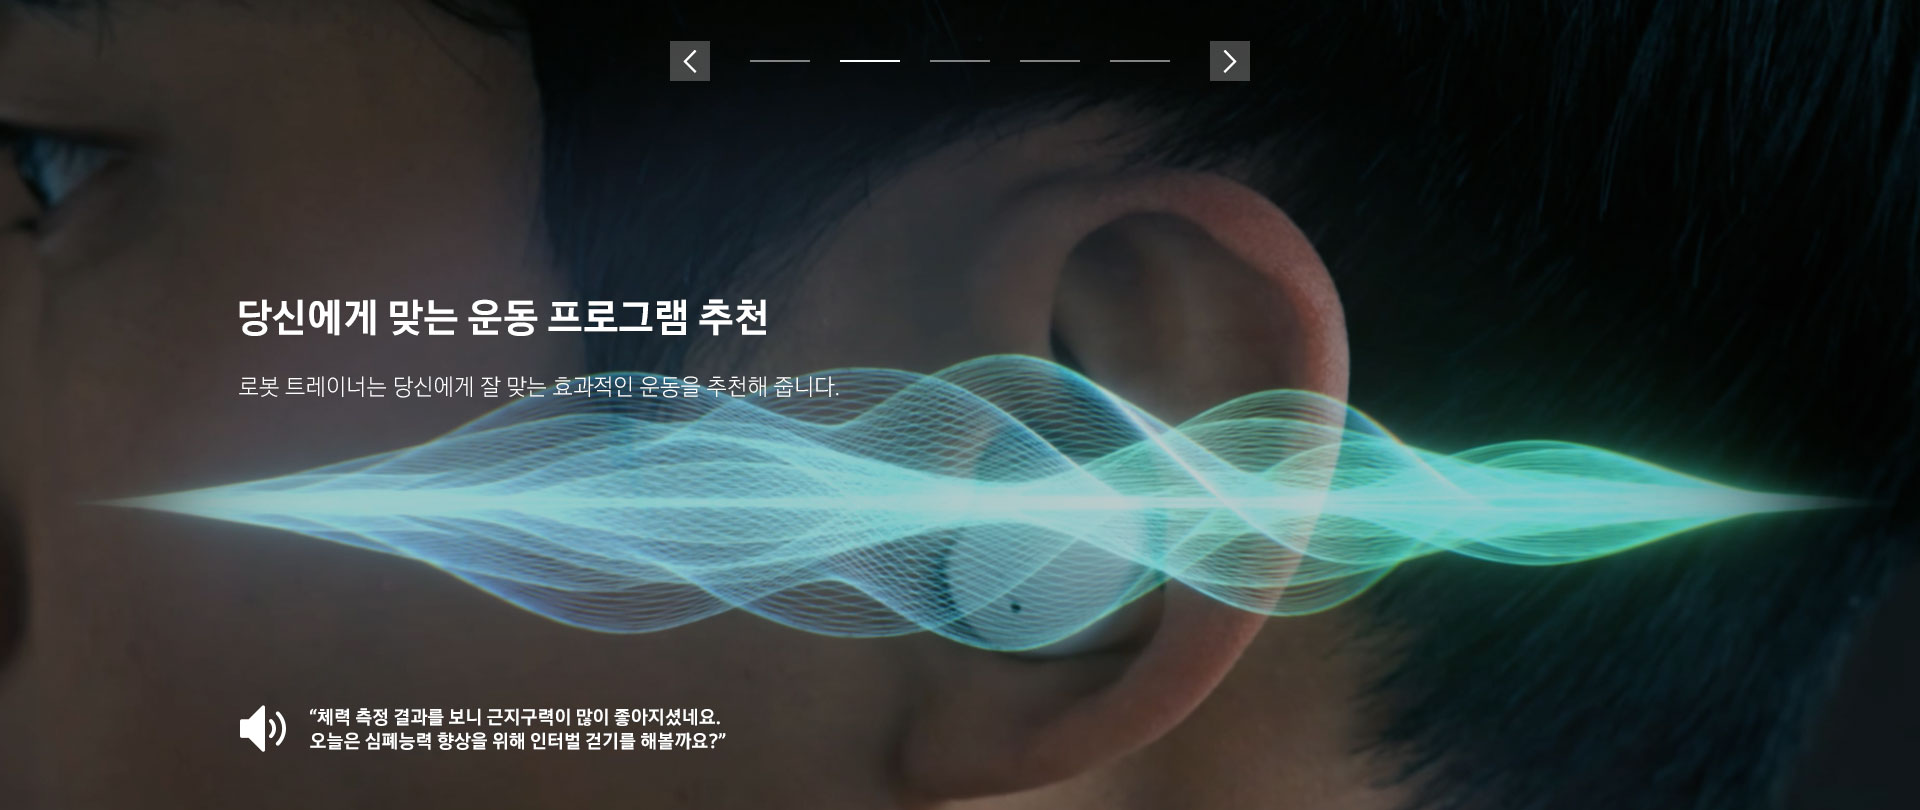
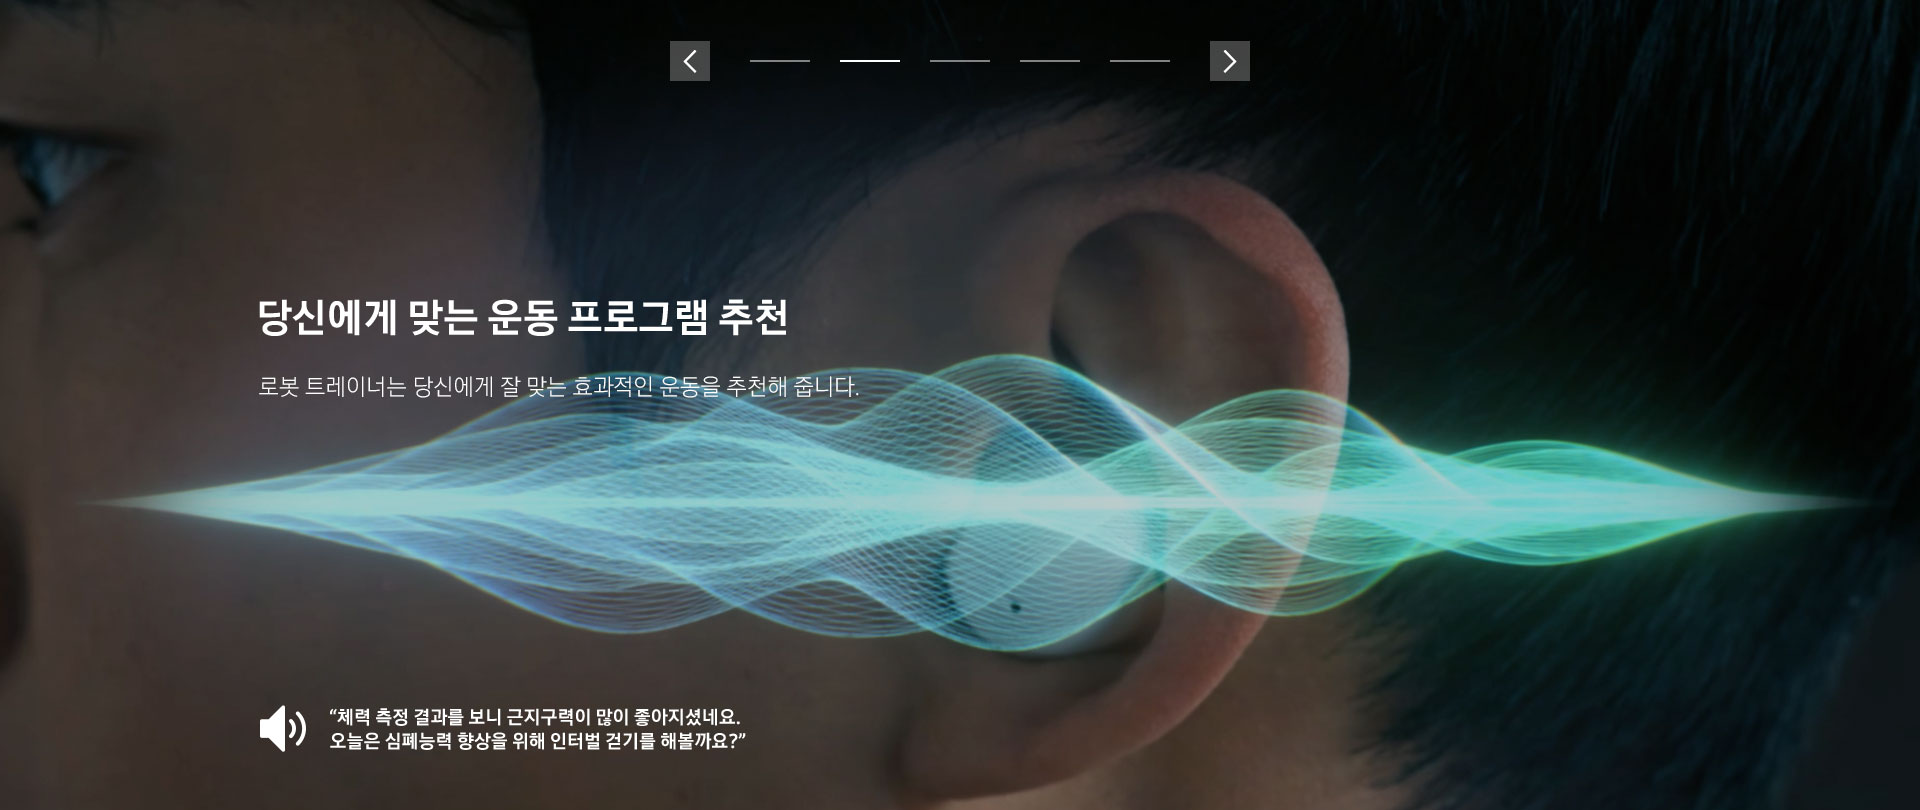
church practice room

Changed region(s): [[0.125, 0.8642, 0.4062, 0.9259], [0.125, 0.3704, 0.4062, 0.4321], [0.125, 0.463, 0.4375, 0.4938]]

diff --git a/index.html b/index.html
@@ -351,14 +351,67 @@
                             </div>
                             <div class="txt_box">
                                 <h3 class="title">운동에 대한 확실한 피드백</h3>
-                                <p class="desc">운동 자세와 신체 능력을 지속적으로 관리할 수 있도록, <br>종합적인 걷기 지표를 제공합니다. <br>효과적인 걷기 운동을 위해 AI 트레이너의 피드백을 놓치지 마세요.</p>
+                                <p class="desc">
+                                    운동 능력 측정을 통해, 당신에게 맞는 운동 프로그램을 추천 받아보세요.<br>
+                                    또한 원할 때마다 나의 운동 데이터를 트레킹 할 수 있습니다.
+                                </p>
+                                <p class="notice">* Samsung Bot Fit 앱은 Play 스토어에서 다운로드 가능</p>
+                                <p class="notice">* UX, UI 디자인 지속 업데이트로 인해 위 이미지와 다를 수 있음</p>
                             </div>
+                            <ul class="feedback_list">
+                                <li class="feedback_item">
+                                    <div class="img_box">
+                                        <img class="pc_only" src="images/sec_effect_speed_pc.png" alt="속도 이미지">
+                                        <img class="mo_only" src="images/sec_effect_speed_mo.png" alt="속도 이미지">
+                                    </div>
+                                    <p class="desc">속도</p>
+                                </li>
+                                <li class="feedback_item">
+                                    <div class="img_box">
+                                        <img class="pc_only" src="images/sec_effect_stride_pc.png" alt="보폭 이미지">
+                                        <img class="mo_only" src="images/sec_effect_stride_mo.png" alt="보폭 이미지">
+                                    </div>
+                                    <p class="desc">보폭</p>
+                                </li>
+                                <li class="feedback_item">
+                                    <div class="img_box">
+                                        <img class="pc_only" src="images/sec_effect_symmetry_pc.png" alt="보행 대칭성 이미지">
+                                        <img class="mo_only" src="images/sec_effect_symmetry_mo.png" alt="보행 대칭성 이미지">
+                                    </div>
+                                    <p class="desc">보행 대칭성</p>
+                                </li>
+                                <li class="feedback_item">
+                                    <div class="img_box">
+                                        <img class="pc_only" src="images/sec_effect_muscular_pc.png" alt="근체력 이미지">
+                                        <img class="mo_only" src="images/sec_effect_muscular_mo.png" alt="근체력 이미지">
+                                    </div>
+                                    <p class="desc">근체력</p>
+                                </li>
+                                <li class="feedback_item">
+                                    <div class="img_box">
+                                        <img class="pc_only" src="images/sec_effect_core_pc.png" alt="코어안정성 이미지">
+                                        <img class="mo_only" src="images/sec_effect_core_mo.png" alt="코어안정성 이미지">
+                                    </div>
+                                    <p class="desc">코어안정성</p>
+                                </li>
+                                <li class="feedback_item">
+                                    <div class="img_box">
+                                        <img class="pc_only" src="images/sec_effect_endurance_pc.png" alt="심폐지구력 이미지">
+                                        <img class="mo_only" src="images/sec_effect_endurance_mo.png" alt="심폐지구력 이미지">
+                                    </div>
+                                    <p class="desc">심폐지구력</p>
+                                </li>
+                            </ul>
                             <div class="sound_box">
                                 <div class="img_box">
                                     <img class="pc_only" src="images/sec_trainer_sound_pc.png" alt="사운드 이미지">
                                     <img class="mo_only" src="images/sec_trainer_sound_mo.png" alt="사운드 이미지">
                                 </div>
-                                <p class="desc">"저와 운동해서 104kcal를 추가로 소모했고, <br>총 322kcal를 소모했어요"</p>
+                                <p class="desc">“저와 운동해서 104kcal를 추가로 소모했고, <br>총 322kcal를 소모했어요”</p>
+                            </div>
+                            <div class="img_box phone_01">
+                                <img class="pc_only" src="images/sec_effect_phone_01_pc.png" alt="사운드 이미지">
+                                <img class="mo_only" src="images/sec_effect_phone_01_mo.png" alt="사운드 이미지">
                             </div>
                         </li>
                         <li class="swiper-slide">
@@ -368,14 +421,14 @@
                             </div>
                             <div class="txt_box">
                                 <h3 class="title">당신에게 맞는 운동 프로그램 추천</h3>
-                                <p class="desc">로봇 트레이너는 당신에게 잘맞는 효과적인 운동을 추천해 줍니다.</p>
+                                <p class="desc">로봇 트레이너는 당신에게 잘 맞는 효과적인 운동을 추천해 줍니다.</p>
                             </div>
                             <div class="sound_box">
                                 <div class="img_box">
                                     <img class="pc_only" src="images/sec_trainer_sound_pc.png" alt="사운드 이미지">
                                     <img class="mo_only" src="images/sec_trainer_sound_mo.png" alt="사운드 이미지">
                                 </div>
-                                <p class="desc">"체력 측정 결과를보니 근지구력이 많이 좋아지셨네요. <br>오늘은 심페능력 향상을 위해 인터벌 걷기를 해볼까요?"</p>
+                                <p class="desc">“체력 측정 결과를 보니 근지구력이 많이 좋아지셨네요. <br>오늘은 심페능력 향상을 위해 인터벌 걷기를 해볼까요?”</p>
                             </div>
                         </li>
                         <li class="swiper-slide">
@@ -392,7 +445,7 @@
                                     <img class="pc_only" src="images/sec_trainer_sound_pc.png" alt="사운드 이미지">
                                     <img class="mo_only" src="images/sec_trainer_sound_mo.png" alt="사운드 이미지">
                                 </div>
-                                <p class="desc">"걸음 속도를 올려서 목표 속도인 시속 6km를 맞춰보세요"</p>
+                                <p class="desc">“걸음 속도를 올려서 목표 속도인 시속 6km를 맞춰보세요”</p>
                             </div>
                         </li>
                         <li class="swiper-slide">
@@ -409,7 +462,7 @@
                                     <img class="pc_only" src="images/sec_trainer_sound_pc.png" alt="사운드 이미지">
                                     <img class="mo_only" src="images/sec_trainer_sound_mo.png" alt="사운드 이미지">
                                 </div>
-                                <p class="desc">"오른발을 조금 더 멀리 뻗어서 왼발과 균형을 맞춰 보세요."</p>
+                                <p class="desc">“오른발을 조금 더 멀리 뻗어서 왼발과 균형을 맞춰 보세요.”</p>
                             </div>
                         </li>
                         <li class="swiper-slide">
@@ -430,7 +483,11 @@
                                     <img class="pc_only" src="images/sec_trainer_sound_pc.png" alt="사운드 이미지">
                                     <img class="mo_only" src="images/sec_trainer_sound_mo.png" alt="사운드 이미지">
                                 </div>
-                                <p class="desc">"저와 운동해서 104kcal를 추가로 소모했고, <br>총 322kcal를 소모했어요"</p>
+                                <p class="desc">“저와 운동해서 104kcal를 추가로 소모했고, <br>총 322kcal를 소모했어요”</p>
+                            </div>
+                            <div class="img_box phone_02">
+                                <img class="pc_only" src="images/sec_effect_phone_02_pc.png" alt="사운드 이미지">
+                                <img class="mo_only" src="images/sec_effect_phone_02_mo.png" alt="사운드 이미지">
                             </div>
                         </li>
                     </ul>

diff --git a/css/index.css b/css/index.css
@@ -21,6 +21,8 @@ html {scroll-behavior: smooth;}
 *{margin:0;padding:0;box-sizing:border-box;line-height:1;}
 #botfit_wrap {max-width:1920px;width:100%;margin:0 auto;overflow:hidden;}
 #botfit_wrap .mo_only {display:none !important;}
+#botfit_wrap .desc {font-weight: 300;}
+#botfit_wrap .notice {background-color: transparent;}
 strong {font-weight:700;vertical-align:baseline;}
 h2, h3, h4, h5 {font-family: 'SamsungOneKorean';}
 p {letter-spacing:0em;font-family:'SamsungOneKorean';}
@@ -146,18 +148,25 @@ span.en {vertical-align: baseline;}
 .sec_trainer {margin-bottom: 160px;}
 .sec_trainer .intro {background: url('../images/sec_trainer_pc.jpg') top center no-repeat;background-size: 1920px 1080px;}
 .trainer_effect {margin-bottom: 160px;}
-.trainer_effect .txt_box {position: absolute;left: 238px;top: 296px;color: #fff;}
+.trainer_effect .txt_box {position: absolute;left: 258px;top: 298px;color: #fff;}
 .trainer_effect .title {margin-bottom: 33px; font-size: 42px;letter-spacing: -0.005em;}
-.trainer_effect .desc {font-size: 24px; line-height: 1.2;letter-spacing: 0.01em;}
-.trainer_effect .sound_box {display: flex; align-items: center; position: absolute;left: 239px;bottom: 53px;}
-.trainer_effect .sound_box .desc {margin: 0 0 4px 23px;font-size: 20px;letter-spacing:0; color: #fff;}
+.trainer_effect .desc {margin-bottom:21px; font-size: 24px; line-height: 1.2;letter-spacing: 0.002em;}
+.trainer_effect .notice {font-size: 18px;font-weight: 300;line-height: 1.35;}
+.trainer_effect .feedback_list {display: flex;justify-content: space-between; align-items: center; position: absolute;left: 278px;top: 567px;width: 578px;}
+.trainer_effect .feedback_item {display: flex;flex-direction: column;align-items: center;width: 58px;}
+.trainer_effect .feedback_item .desc {margin: 14px 0 0;font-size: 18px;font-weight: 700; white-space: nowrap;color: #fff;}
+.trainer_effect .sound_box {display: flex; align-items: center; position: absolute;left: 259px;bottom: 56px;}
+.trainer_effect .sound_box .desc {margin: 0 0 0 25px;font-size: 20px;letter-spacing:0; color: #fff;}
+.trainer_effect .img_box.phone_01,
+.trainer_effect .img_box.phone_02 {position: absolute;right: 362px;bottom: -84px;}
+.trainer_effect .slider {overflow: hidden;background-color: #000;}
 .trainer_effect .slider .slide_tit {bottom: calc(100% - 62px); max-width: 420px;gap:30px;}
 .trainer_effect .slider .slide_tit > li {height: 2px; background: #838383;}
 .trainer_effect .slider .slide_tit > li.swiper-pagination-bullet-active {background: #fff;}
 #botfit_wrap .trainer_effect .slider .control {top: 61px; width: 580px;}
 #botfit_wrap .trainer_effect .slider .control .btn {width: 40px;height: 40px;}
-#botfit_wrap .trainer_effect .slider .control .btn.btn_prev {background: url('../images/sec_kv_prev_pc.png') rgb(255, 255, 255, 0.3) center no-repeat; background-size: 14px 23px;}
-#botfit_wrap .trainer_effect .slider .control .btn.btn_next {background: url('../images/sec_kv_next_pc.png') rgb(255, 255, 255, 0.3) center no-repeat; background-size: 14px 23px;}
+#botfit_wrap .trainer_effect .slider .control .btn.btn_prev {background: url('../images/sec_kv_prev_pc.png') rgb(131, 131, 131, 0.5) center no-repeat; background-size: 14px 23px;}
+#botfit_wrap .trainer_effect .slider .control .btn.btn_next {background: url('../images/sec_kv_next_pc.png') rgb(131, 131, 131, 0.5) center no-repeat; background-size: 14px 23px;}
 
 .trainer_indicator {position: relative; width:100%;height: 900px;background: url('../images/sec_trainer_feedback_pc.jpg') top center no-repeat;background-size: 1920px 900px;}
 .trainer_indicator .txt_box {position: absolute;left: 237px;top: 132px;color: #fff;}
@@ -178,8 +187,8 @@ span.en {vertical-align: baseline;}
 .trainer_indicator .table_box table th.kcal {width: 118px;}
 .trainer_indicator .table_box table th.heart {width: 183px;}
 .trainer_indicator .table_box table th.time {width: 127px;}
-.trainer_indicator .table_box table th.kcal::before {content: '';position: absolute;left: 50%;bottom: 100%;transform: translate(-50%, -12px);width: 23px;height: 24px;background: url('../images/sec_indicator_kcal_pc.png') center no-repeat;background-size: 100%;}
-.trainer_indicator .table_box table th.heart::before {content: '';position: absolute;left: 50%;bottom: 100%;transform: translate(-50%, -12px);width: 31px;height: 23px;background: url('../images/sec_indicator_heart_pc.png') center no-repeat;background-size: 100%;}
+.trainer_indicator .table_box table th.kcal::before {content: '';position: absolute;left: 50%;bottom: 100%;transform: translate(-50%, -12px);width: 24px;height: 24px;background: url('../images/sec_indicator_kcal_pc.png') center no-repeat;background-size: 100%;}
+.trainer_indicator .table_box table th.heart::before {content: '';position: absolute;left: 50%;bottom: 100%;transform: translate(-50%, -12px);width: 31px;height: 24px;background: url('../images/sec_indicator_heart_pc.png') center no-repeat;background-size: 100%;}
 .trainer_indicator .table_box table th.time::before {content: '';position: absolute;left: 50%;bottom: 100%;transform: translate(-50%, -12px);width: 24px;height: 26px;background: url('../images/sec_indicator_time_pc.png') center no-repeat;background-size: 100%;}
 .trainer_indicator .table_box table td span {font-size: 16px;vertical-align: bottom;}
 
@@ -188,6 +197,9 @@ span.en {vertical-align: baseline;}
 .fitdesign_style .txt_box {display: flex;align-items: center;margin-bottom: 65px;}
 .fitdesign_style .title {font-size: 100px;line-height: 1.2;}
 .fitdesign_style .desc {margin:0 0 109px 150px;font-size: 26px; line-height: 1.4;}
+
+.fitdesign_style .slider {padding-bottom: 76px;}
+#botfit_wrap .fitdesign_style .slider .control {top: calc(50% - 40px); width: 1318px;}
 
 
 @media screen and (min-width:769px) and (max-width:1920px) {
